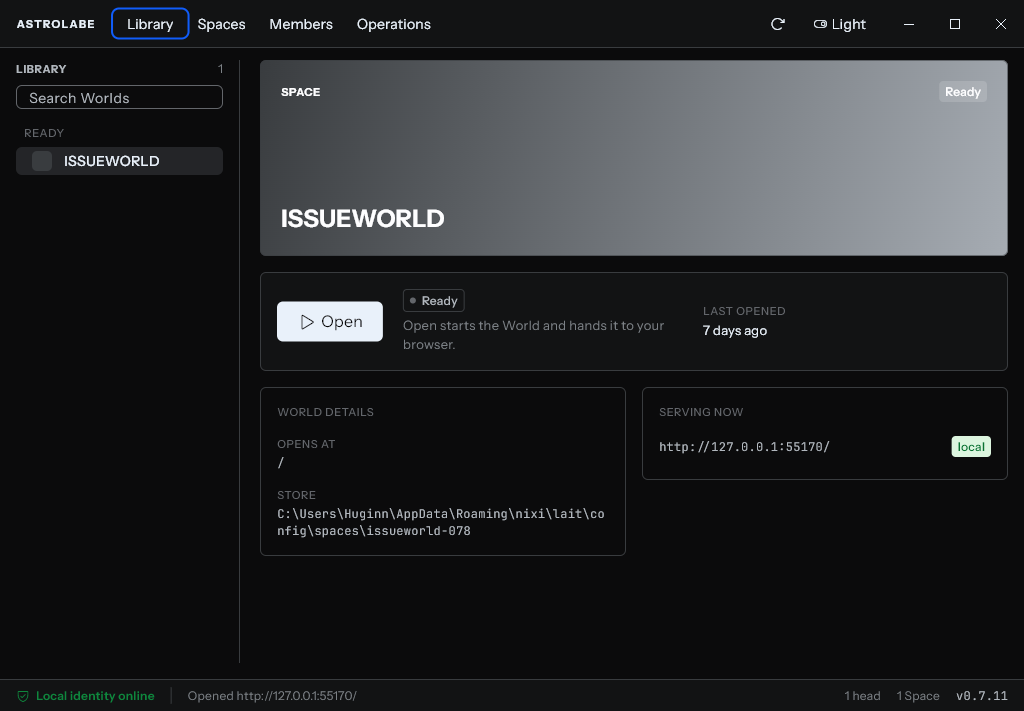
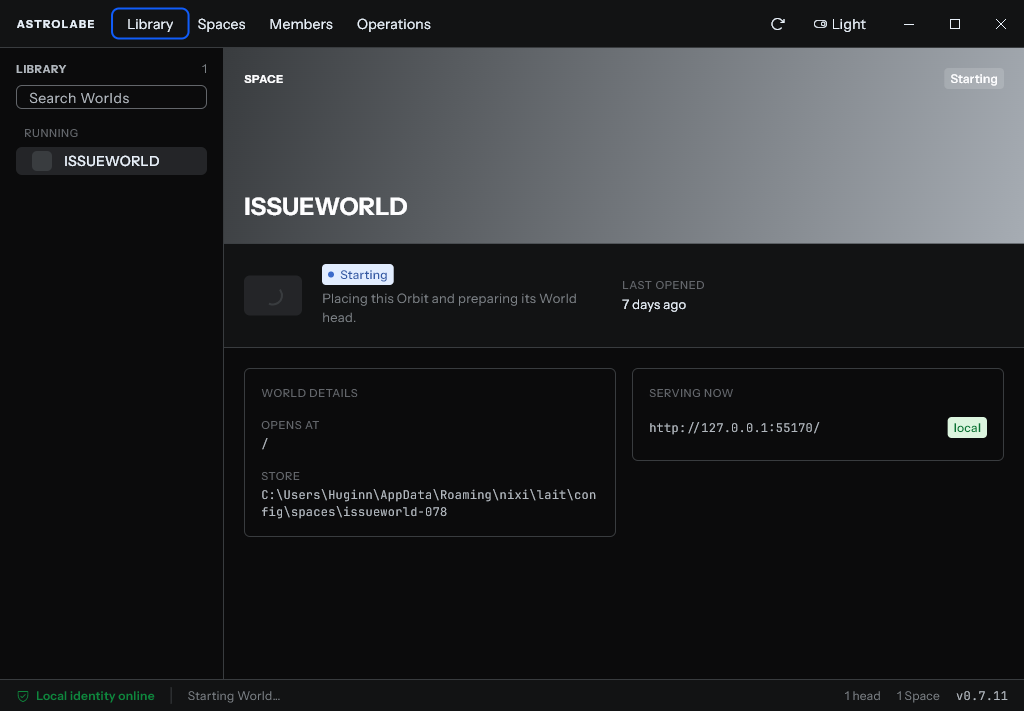
fix(astrolabe): make the Library frame edge-to-edge

diff --git a/apps/astrolabe/lib/src/surfaces/library.dart b/apps/astrolabe/lib/src/surfaces/library.dart
@@ -68,7 +68,6 @@ class _LibrarySurfaceState extends State<LibrarySurface> {
             onSelect: (row) => setState(() => _selected = row.key),
           ),
         ),
-        t.gap.x(Space.xl5),
         Expanded(
           child:
               showing == null ? const _NoMatches() : _Detail(showing: showing),
@@ -89,22 +88,32 @@ class _Loading extends StatelessWidget {
       children: [
         t.box.width(
           TokenEscape.rawSize(kRailWidth),
-          child: Column(
-            crossAxisAlignment: CrossAxisAlignment.stretch,
-            children: [
-              const Skeleton(height: 24),
-              t.gap.y(Space.xl),
-              const Skeleton(height: 32),
-              t.gap.y(Space.xl3),
-              const Skeleton(height: 28),
-              t.gap.y(Space.xs),
-              const Skeleton(height: 28),
-              t.gap.y(Space.xs),
-              const Skeleton(height: 28),
-            ],
+          child: Container(
+            decoration: BoxDecoration(
+              border: t.stroke.edge(right: context.border.l500),
+            ),
+            padding: t.padding.fromLTRB(
+              Space.xl3,
+              Space.xl,
+              Space.xl3,
+              Space.xl3,
+            ),
+            child: Column(
+              crossAxisAlignment: CrossAxisAlignment.stretch,
+              children: [
+                const Skeleton(height: 24),
+                t.gap.y(Space.xl),
+                const Skeleton(height: 32),
+                t.gap.y(Space.xl3),
+                const Skeleton(height: 28),
+                t.gap.y(Space.xs),
+                const Skeleton(height: 28),
+                t.gap.y(Space.xs),
+                const Skeleton(height: 28),
+              ],
+            ),
           ),
         ),
-        t.gap.x(Space.xl5),
         const Expanded(child: Skeleton(height: kHeroHeight)),
       ],
     );
@@ -117,18 +126,26 @@ class _Empty extends StatelessWidget {
   @override
   Widget build(BuildContext context) {
     final t = context.tokens;
-    return Column(
-      crossAxisAlignment: CrossAxisAlignment.start,
-      children: [
-        Text('Library', style: context.titleStyle),
-        t.gap.y(Space.xl5),
-        Text('This device serves no Worlds yet.', style: context.bodyStyle),
-        t.gap.y(Space.xs),
-        Text(
-          'Found a Space, or enter one from an invite, on the Spaces tab.',
-          style: context.proseStyle,
-        ),
-      ],
+    return Padding(
+      padding: t.padding.fromLTRB(
+        Space.xl3,
+        Space.xl,
+        Space.xl3,
+        Space.xl3,
+      ),
+      child: Column(
+        crossAxisAlignment: CrossAxisAlignment.start,
+        children: [
+          Text('Library', style: context.titleStyle),
+          t.gap.y(Space.xl5),
+          Text('This device serves no Worlds yet.', style: context.bodyStyle),
+          t.gap.y(Space.xs),
+          Text(
+            'Found a Space, or enter one from an invite, on the Spaces tab.',
+            style: context.proseStyle,
+          ),
+        ],
+      ),
     );
   }
 }
@@ -187,10 +204,16 @@ class _Rail extends StatelessWidget {
         .toList();
 
     return Container(
+      key: const ValueKey('library-rail'),
       decoration: BoxDecoration(
         border: t.stroke.edge(right: context.border.l500),
       ),
-      padding: t.padding.only(right: Space.xl3),
+      padding: t.padding.fromLTRB(
+        Space.xl3,
+        Space.xl,
+        Space.xl3,
+        Space.xl3,
+      ),
       child: Column(
         crossAxisAlignment: CrossAxisAlignment.stretch,
         children: [
@@ -221,6 +244,7 @@ class _Rail extends StatelessWidget {
             child: rows.isEmpty
                 ? Text('No matches', style: context.labelStyle)
                 : ListView(
+                    padding: EdgeInsets.zero,
                     children: [
                       if (running.isNotEmpty)
                         _RailSection(
@@ -347,17 +371,24 @@ class _Detail extends StatelessWidget {
   Widget build(BuildContext context) {
     final t = context.tokens;
     return ListView(
+      padding: EdgeInsets.zero,
       children: [
         _Hero(showing: showing),
-        if (showing.routes.isNotEmpty) ...[
-          t.gap.y(Space.sm),
-          _Routes(showing: showing),
-        ],
-        t.gap.y(Space.xl3),
         _ActionPanel(showing: showing),
-        t.gap.y(Space.xl3),
-        _Details(showing: showing),
-        t.gap.y(Space.xl3),
+        Padding(
+          padding: t.padding.all(Space.xl5),
+          child: Column(
+            key: const ValueKey('library-detail-content'),
+            crossAxisAlignment: CrossAxisAlignment.stretch,
+            children: [
+              if (showing.routes.isNotEmpty) ...[
+                _Routes(showing: showing),
+                t.gap.y(Space.xl3),
+              ],
+              _Details(showing: showing),
+            ],
+          ),
+        ),
       ],
     );
   }
@@ -377,11 +408,11 @@ class _Hero extends StatelessWidget {
     final lifecycle = _lifecycleCopy(view, showing);
 
     return Container(
+      key: const ValueKey('library-hero'),
       height: kHeroHeight,
       padding: t.padding.all(Space.xl5),
       decoration: BoxDecoration(
-        borderRadius: t.radius.all(Space.lg),
-        border: Border.all(color: seed.withValues(alpha: 0.55)),
+        border: t.stroke.edge(bottom: seed.withValues(alpha: 0.55)),
         gradient: LinearGradient(
           begin: Alignment.topLeft,
           end: Alignment.bottomRight,
@@ -503,11 +534,11 @@ class _ActionPanel extends StatelessWidget {
     final lifecycle = _lifecycleCopy(view, showing);
 
     return Container(
-      padding: t.padding.all(Space.xl3),
+      key: const ValueKey('library-open-band'),
+      padding: t.padding.all(Space.xl5),
       decoration: BoxDecoration(
         color: context.surface.l100,
-        border: Border.all(color: context.border.l500, width: t.stroke.xxs),
-        borderRadius: t.radius.all(Space.md),
+        border: t.stroke.edge(bottom: context.border.l500),
       ),
       child: Wrap(
         spacing: t.size.xl5,

diff --git a/apps/astrolabe/test/library_test.dart b/apps/astrolabe/test/library_test.dart
@@ -13,6 +13,7 @@ library;
 
 import 'package:astrolabe/src/core/client.dart';
 import 'package:astrolabe/src/surfaces/library.dart';
+import 'package:astrolabe/src/surfaces/surfaces.dart' as astrolabe;
 import 'package:covalence/covalence.dart' hide Surface;
 import 'package:flutter/material.dart' show MaterialApp, Scaffold;
 import 'package:flutter/widgets.dart';
@@ -82,7 +83,50 @@ Future<List<ActionRequest>> _pump(WidgetTester tester, ClientView view) async {
   return asked;
 }
 
+Future<void> _pumpLibraryPage(WidgetTester tester, ClientView view) async {
+  tester.view.physicalSize = const Size(1040, 720);
+  tester.view.devicePixelRatio = 1;
+  addTearDown(tester.view.resetPhysicalSize);
+  addTearDown(tester.view.resetDevicePixelRatio);
+
+  await tester.pumpWidget(
+    MaterialApp(
+      theme: covalenceTheme(const ThemeConfig()),
+      home: ClientScope(
+        client: Client.canned(view),
+        child: const Scaffold(
+          body: astrolabe.SurfacePage(
+            surface: astrolabe.Surface.library,
+          ),
+        ),
+      ),
+    ),
+  );
+  await tester.pump(const Duration(milliseconds: 300));
+}
+
 void main() {
+  testWidgets('Library rail and hero own the frame edges', (tester) async {
+    await _pumpLibraryPage(
+      tester,
+      _view(library: [_row(orbit: 'orb_one', name: 'IssueWorld')]),
+    );
+
+    final rail = find.byKey(const ValueKey('library-rail'));
+    final hero = find.byKey(const ValueKey('library-hero'));
+    final openBand = find.byKey(const ValueKey('library-open-band'));
+    final content = find.byKey(const ValueKey('library-detail-content'));
+
+    expect(tester.getTopLeft(rail), Offset.zero);
+    expect(tester.getSize(rail).width, kRailWidth);
+    expect(tester.getTopLeft(hero), const Offset(kRailWidth, 0));
+    expect(tester.getSize(hero).width, 1040 - kRailWidth);
+    expect(tester.getTopLeft(openBand), const Offset(kRailWidth, kHeroHeight));
+    expect(tester.getSize(openBand).width, 1040 - kRailWidth);
+    expect(tester.getTopLeft(content).dx, kRailWidth + 20);
+    expect(tester.getTopLeft(content).dy, greaterThan(kHeroHeight + 20));
+  });
+
   testWidgets('loading and empty are told apart on screen', (tester) async {
     await _pump(tester, _view());
     expect(

diff --git a/apps/astrolabe/lib/src/surfaces/surfaces.dart b/apps/astrolabe/lib/src/surfaces/surfaces.dart
@@ -47,17 +47,25 @@ class SurfacePage extends StatelessWidget {
 
   @override
   Widget build(BuildContext context) {
+    final page = switch (surface) {
+      Surface.library => const LibrarySurface(),
+      Surface.spaces => const SpacesSurface(),
+      Surface.members => const MembersSurface(),
+      Surface.devices => const DevicesSurface(),
+      Surface.heads => const HeadsSurface(),
+      Surface.storage => const StorageSurface(),
+      Surface.diagnostics => const DiagnosticsSurface(),
+    };
+
+    // Library is the client frame rather than a document inside it: its rail
+    // owns the left edge and its selected World's hero owns the top of the
+    // remaining pane. The operational surfaces below are still conventional
+    // pages and keep the shared page gutter.
+    if (surface == Surface.library) return page;
+
     return Padding(
       padding: pageMargin(context.tokens),
-      child: switch (surface) {
-        Surface.library => const LibrarySurface(),
-        Surface.spaces => const SpacesSurface(),
-        Surface.members => const MembersSurface(),
-        Surface.devices => const DevicesSurface(),
-        Surface.heads => const HeadsSurface(),
-        Surface.storage => const StorageSurface(),
-        Surface.diagnostics => const DiagnosticsSurface(),
-      },
+      child: page,
     );
   }
 }

diff --git a/apps/astrolabe/design-qa.md b/apps/astrolabe/design-qa.md
@@ -5,27 +5,28 @@
 - Source visual truth:
   - `C:\Users\Huginn\Pictures\Screenshots\Screenshot 2026-08-13 025459.png` — Steam Library, 2557 × 1391 px.
   - `C:\Users\Huginn\Pictures\Screenshots\Screenshot 2026-08-13 025419.png` — GOG Galaxy selected-item view, 1713 × 796 px.
+  - `C:\Users\Huginn\Pictures\Screenshots\Screenshot 2026-08-13 095620.png` — prior Astrolabe Library with the requested edge-to-edge correction, 1020 × 704 px.
 - Rendered implementation: `artifacts/astrolabe-library-final.png`, 1024 × 711 px.
 - CSS/logical viewport: 1024 × 711 at device pixel ratio 1 in the Flutter inspector capture.
-- State: dark theme, Library selected, ISSUEWORLD ready, one local browser head.
-- The sources are directional references rather than a screen to clone pixel-for-pixel. Comparison therefore evaluates the borrowed composition: dense Library spine, selected-item hierarchy, integrated chrome, and persistent bottom status.
+- State: dark theme, Library selected, ISSUEWORLD starting, one local browser head.
+- The Steam and GOG sources remain directional references. The 09:56 Astrolabe capture plus the user's follow-up are the exact scoped target: preserve the established shell while removing the outer Library gutter, making both the hero and primary Open/lifecycle band full-bleed in the detail pane, and moving the inset to the information content only.
 
 ## Findings
 
 - No actionable P0, P1, or P2 differences remain.
 - Fonts and typography: Instrument Sans and JetBrains Mono resolve through Covalence. Hierarchy is legible at the real desktop viewport, with compact chrome, a larger selected-World title, quiet fact labels, and a distinct path/address register.
-- Spacing and layout rhythm: the 224 px Library rail, 48 px caption band, 32 px operational footer, 196 px hero, panel gutters, and compact row density preserve the useful Steam/GOG proportions without importing their store content.
+- Spacing and layout rhythm: the 224 px Library rail now begins at the client's left edge. The 196 px hero begins at x=224/y=0 and fills the complete detail width. The primary Open/lifecycle band follows at the same full width with a square lower rule; World Details and Serving Now alone begin on a separate 20 px inset below it. The 48 px caption band, 32 px operational footer, and compact row density retain the established proportions.
 - Colors and visual tokens: dark is the default and uses a cool neutral ramp rather than pure black. The separately rendered light variant remains readable and does not merely invert status colors. Focus, selection, border, and status treatments come from Covalence token axes.
 - Image and asset fidelity: the reference products depend on game artwork, but Astrolabe has no authoritative image contract. The implementation correctly derives a restrained hero only from World-declared accent data and does not invent or fetch artwork. Icons use the Covalence pack.
 - Copy and content: lifecycle copy distinguishes Ready, Starting, Running, Could not ask, and Unavailable. Running changes the action to View. The footer reports local identity, current action, heads, Spaces, and version without exposing a launch credential.
 
 ## Full-view comparison evidence
 
-- `artifacts/astrolabe-library-final.png` shows the final dark Library against the Steam and GOG source captures in one comparison pass.
+- `artifacts/astrolabe-library-final.png` was opened in the same comparison input as the 09:56 Astrolabe source capture. The comparison shows the requested delta directly: the outer Library gutter and inter-pane gap are gone, the rail divider meets the header and footer, the hero and Open/lifecycle band are rectangular and full-bleed, and only the lower information panels remain inset.
 - `artifacts/astrolabe-theme-toggle-check.png` verifies the separately tuned light surface and the working in-chrome theme action.
 - `artifacts/astrolabe-operations-dark.png` verifies that the four primary destinations resolve Operations into a compact Devices / Heads / Storage / Diagnostics contextual rail.
 
-Focused crops were not needed: the full 1024 × 711 captures keep all critical chrome, labels, borders, action states, and footer content readable. The two variant captures isolate the two regions whose behavior cannot be judged from the Library frame alone.
+The source and implementation were compared at native DPR 1; their 4 × 7 px capture-size difference is limited to the outer window bounds and does not affect the measured client layout. Focused crops were not needed because the full captures keep the rail edge, hero bounds, lower-content inset, labels, borders, action state, and footer readable. The two variant captures isolate the two regions whose behavior cannot be judged from the Library frame alone.
 
 ## Interaction and runtime evidence
 
@@ -38,6 +39,8 @@ Focused crops were not needed: the full 1024 × 711 captures keep all critical c
 1. The first rendered pass, `artifacts/astrolabe-library-dark.png`, exposed a P1 security and information-density problem: the footer printed the full single-use launch-ticket URL.
 2. The footer now reduces launch records to scheme, host, port, and path, and deduplicates identical notices. `artifacts/astrolabe-library-final.png` confirms the query credential is absent while the successful browser handoff remains visible.
 3. No P0/P1/P2 findings remained in the final dark, light, and Operations captures.
+4. The 09:56 annotation capture exposed a P2 composition issue: a shared page gutter inset the entire Library, and a second gap kept the hero from owning the detail pane.
+5. Library now bypasses the document-style page margin, the rail retains only its internal control padding, the hero and primary Open/lifecycle band are full-bleed and square at the pane boundary, and the information stack alone owns the 20 px inset. The revised `artifacts/astrolabe-library-final.png` was compared with the annotation capture and has no remaining P0/P1/P2 findings.
 
 ## Follow-up polish
 
@@ -50,6 +53,7 @@ Focused crops were not needed: the full 1024 × 711 captures keep all critical c
 - [x] Refined primary and contextual navigation.
 - [x] Persistent operational footer.
 - [x] Searchable lifecycle-grouped Library rail.
+- [x] Edge-to-edge Library frame with full-bleed selected-World hero and Open/lifecycle band.
 - [x] Ready, Starting, Running/View, unreachable, and unavailable presentation.
 - [x] Credential-safe, deduplicated activity summary.
 - [x] Dark, light, and Operations visual verification.
